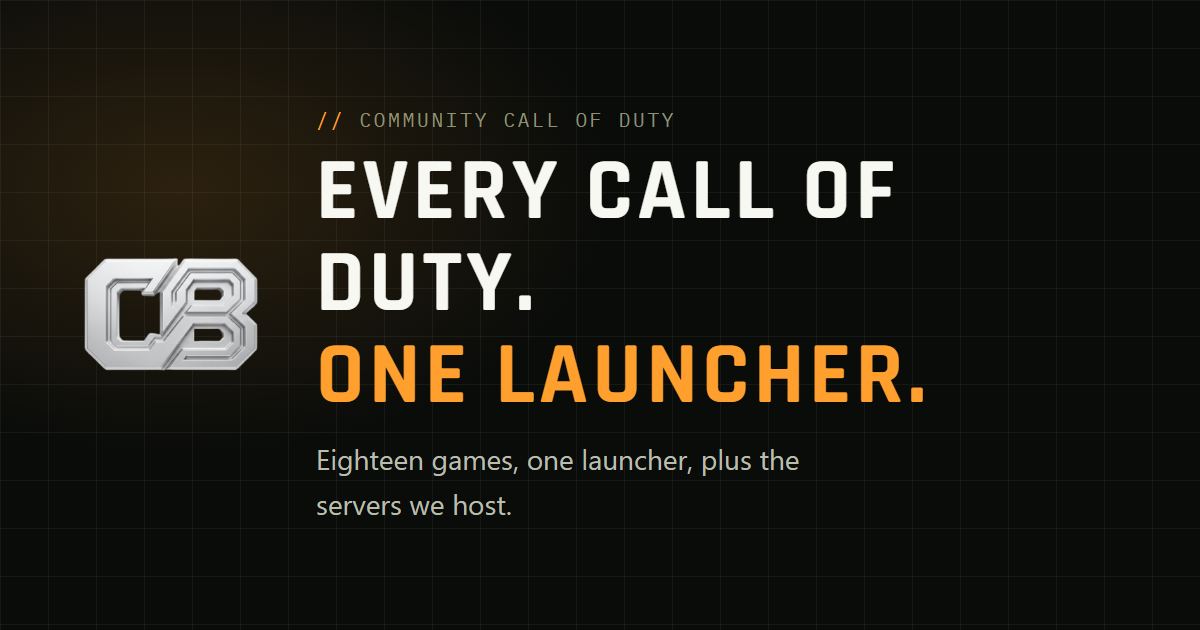
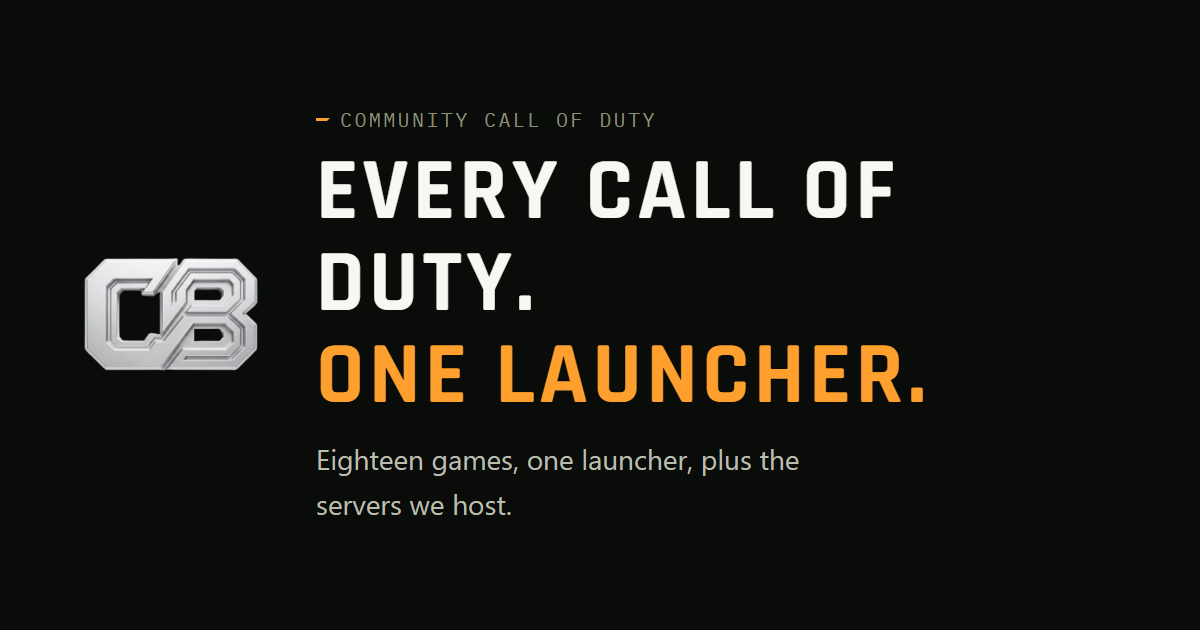
update design to further match launcher tactical theme

Changed region(s): [[0.0308, 0.1508, 0.2775, 0.4222], [0.2467, 0.1508, 0.555, 0.2111]]

diff --git a/site/assets/site.css b/site/assets/site.css
@@ -21,7 +21,6 @@
   --text-2: #B9BDAE;
   --muted: #8A9178;
   --dim: #5C6152;
-  --grid: rgba(237, 232, 214, 0.06);
   --accent: #FFA02E;
   --accent-contrast: #141309;
   --accent-soft: rgba(255, 160, 46, 0.22);
@@ -58,13 +57,6 @@ body {
   -webkit-font-smoothing: antialiased;
   text-rendering: optimizeLegibility;
 }
-body.tactical-grid {
-  background-image:
-    linear-gradient(var(--grid) 1px, transparent 1px),
-    linear-gradient(90deg, var(--grid) 1px, transparent 1px);
-  background-size: 48px 48px;
-  background-position: center top;
-}
 a { color: var(--accent); text-decoration: none; }
 a:hover { color: var(--link-hover); }
 img { max-width: 100%; height: auto; display: block; }
@@ -92,6 +84,7 @@ h1 { font-size: clamp(40px, 6vw, 68px); font-weight: 700; }
 h2 { font-size: clamp(28px, 3.6vw, 40px); font-weight: 700; }
 h3 { font-size: 19px; font-weight: 600; letter-spacing: 0.06em; }
 .eyebrow {
+  display: flex; align-items: center; gap: 10px;
   font-family: var(--font-mono);
   font-size: 12px;
   letter-spacing: var(--tracking);
@@ -99,7 +92,7 @@ h3 { font-size: 19px; font-weight: 600; letter-spacing: 0.06em; }
   color: var(--muted);
   margin: 0 0 10px;
 }
-.eyebrow::before { content: '// '; color: var(--accent); }
+.eyebrow::before { content: ''; width: 14px; height: 3px; flex: none; background: var(--accent); clip-path: polygon(0 0, 100% 0, calc(100% - 3px) 100%, 0 100%); }
 .lead { font-size: 18px; color: var(--text-2); max-width: 60ch; margin: 14px 0 0; }
 .mono { font-family: var(--font-mono); }
 .accent { color: var(--accent); }
@@ -121,9 +114,8 @@ h3 { font-size: 19px; font-weight: 600; letter-spacing: 0.06em; }
 .btn.primary {
   color: var(--accent-contrast); background: var(--accent-grad); border-color: transparent;
   clip-path: var(--clip-chamfer-sm);
-  box-shadow: 0 0 24px rgba(255, 160, 46, 0.18);
 }
-.btn.primary:hover { color: var(--accent-contrast); filter: brightness(1.08); box-shadow: 0 0 32px rgba(255, 160, 46, 0.32); }
+.btn.primary:hover { color: var(--accent-contrast); filter: brightness(1.08); }
 .btn.small { min-height: 36px; padding: 0 14px; font-size: 13px; }
 .btn-note { font-family: var(--font-mono); font-size: 12px; color: var(--muted); letter-spacing: 0.04em; }
 
@@ -155,15 +147,13 @@ h3 { font-size: 19px; font-weight: 600; letter-spacing: 0.06em; }
 section { padding: 72px 0; position: relative; }
 section + section { border-top: 1px solid var(--border); }
 .section-head { display: flex; align-items: flex-end; justify-content: space-between; gap: 24px; flex-wrap: wrap; margin-bottom: 32px; }
+.section-head h2, .split h2 { display: flex; align-items: center; gap: 14px; }
+.section-head h2::before, .split h2::before { content: ''; width: 18px; height: 4px; flex: none; background: var(--accent); clip-path: polygon(0 0, 100% 0, calc(100% - 4px) 100%, 0 100%); }
 .section-head p { margin: 8px 0 0; color: var(--text-2); max-width: 60ch; }
 .section-head .aside { font-family: var(--font-mono); font-size: 13px; color: var(--muted); }
 
 /* Hero */
 .hero { padding: 88px 0 72px; overflow: hidden; }
-.hero::before {
-  content: ''; position: absolute; inset: 0; pointer-events: none;
-  background: radial-gradient(ellipse 70% 60% at 20% 20%, rgba(255, 160, 46, 0.10), transparent 60%);
-}
 .hero .wrap { display: grid; grid-template-columns: minmax(0, 1.05fr) minmax(0, 1fr); gap: 56px; align-items: center; position: relative; }
 .hero-copy .lead { margin-top: 18px; }
 .hero-actions { display: flex; gap: 12px; flex-wrap: wrap; align-items: center; margin-top: 30px; }
@@ -172,10 +162,9 @@ section + section { border-top: 1px solid var(--border); }
   display: flex; align-items: center; gap: 10px; flex-wrap: wrap;
   margin-top: 28px; font-family: var(--font-mono); font-size: 13px; letter-spacing: 0.06em; text-transform: uppercase; color: var(--muted);
 }
-.live-line .dot { width: 8px; height: 8px; border-radius: 50%; background: var(--good); box-shadow: 0 0 10px var(--good); animation: pulse 2s infinite; }
+.live-line .dot { width: 8px; height: 8px; border-radius: 2px; background: var(--good); }
 .live-line .num { color: var(--text-bright); font-weight: 500; }
 .live-line .sep { color: var(--dim); }
-@keyframes pulse { 0%, 100% { opacity: 1; } 50% { opacity: 0.45; } }
 
 /* HUD frame around a screenshot */
 .frame { position: relative; padding: 12px; }
@@ -316,8 +305,8 @@ span.server-connect:hover { border-color: var(--border-hi); color: var(--muted);
 /* CTA band */
 .cta-band {
   padding: 56px 0; text-align: center;
-  background: radial-gradient(ellipse 60% 100% at 50% 100%, rgba(255, 160, 46, 0.12), transparent 70%);
 }
+.cta-band h2 { justify-content: center; }
 .cta-band .hero-actions { justify-content: center; }
 
 /* Footer */
@@ -374,6 +363,5 @@ footer p { margin: 10px 0 0; color: var(--muted); font-size: 13px; max-width: 46
 }
 @media (prefers-reduced-motion: reduce) {
   html { scroll-behavior: auto; }
-  .live-line .dot { animation: none; }
   .btn, .card, .game, .game img.capsule { transition: none; }
 }

diff --git a/site/launcher/index.html b/site/launcher/index.html
@@ -20,7 +20,7 @@
 <link rel="preload" href="/assets/fonts/ibm-plex-mono-400.woff2" as="font" type="font/woff2" crossorigin>
 <link rel="stylesheet" href="/assets/site.css">
 </head>
-<body class="tactical-grid">
+<body>
 <header class="top">
   <div class="wrap">
     <a class="brand" href="/">
@@ -76,20 +76,19 @@
     <div class="wrap">
       <div class="section-head">
         <div>
-          <p class="eyebrow">Features</p>
-          <h2>Everything between you and the game</h2>
-          <p>The launcher handles the setup, updates and housekeeping so the only button you need is Play.</p>
+          <h2>What it does</h2>
+          <p>It handles installs, updates and verification, so all you have to do is press Play.</p>
         </div>
       </div>
       <div class="grid cols-4">
         <div class="card">
           <span class="icon"><svg viewBox="0 0 24 24" fill="none" stroke="currentColor" stroke-width="2" stroke-linecap="round" stroke-linejoin="round"><path d="M3 7a2 2 0 0 1 2-2h4l2 2h8a2 2 0 0 1 2 2v9a2 2 0 0 1-2 2H5a2 2 0 0 1-2-2z"/></svg></span>
-          <h3>Your files or ours</h3>
+          <h3>Use your files or download them</h3>
           <p>Point it at a Steam or existing install, or download the game straight from our CDN.</p>
         </div>
         <div class="card">
           <span class="icon"><svg viewBox="0 0 24 24" fill="none" stroke="currentColor" stroke-width="2" stroke-linecap="round" stroke-linejoin="round"><path d="M21 12a9 9 0 1 1-6.2-8.56"/><path d="M21 3v6h-6"/></svg></span>
-          <h3>Always current</h3>
+          <h3>Automatic updates</h3>
           <p>The launcher, every client and the game files update automatically. Hash-verified, resumable downloads.</p>
         </div>
         <div class="card">
@@ -119,7 +118,7 @@
         </div>
         <div class="card">
           <span class="icon"><svg viewBox="0 0 24 24" fill="none" stroke="currentColor" stroke-width="2" stroke-linecap="round" stroke-linejoin="round"><path d="M14.7 6.3a1 1 0 0 0 0 1.4l1.6 1.6a1 1 0 0 0 1.4 0l3.77-3.77a6 6 0 0 1-7.94 7.94l-6.91 6.91a2.12 2.12 0 0 1-3-3l6.91-6.91a6 6 0 0 1 7.94-7.94z"/></svg></span>
-          <h3>Fixes the boring parts</h3>
+          <h3>Redistributables and links</h3>
           <p>Installs the Visual C++ and DirectX redistributables with one prompt, keeps a shared GUID across clients, and opens straight from <code>cbservers://</code> links.</p>
         </div>
       </div>
@@ -130,8 +129,7 @@
     <div class="wrap">
       <div class="section-head">
         <div>
-          <p class="eyebrow">Supported games</p>
-          <h2>From 2003 to Black Ops 4</h2>
+          <h2>Supported games</h2>
           <p>Each title runs on its community client. The launcher installs the client for you and, where a game has more than one, lets you choose.</p>
         </div>
         <a class="aside" href="https://docs.cbservers.xyz/games" rel="noopener">Per-game install docs &rarr;</a>
@@ -162,7 +160,6 @@
   <section id="social">
     <div class="wrap split">
       <div>
-        <p class="eyebrow">Play together</p>
         <h2>Friends, invites, rooms</h2>
         <p class="lead">Presence and invites work across every client the launcher runs, whether or not the game itself has a friends list.</p>
         <ul class="feature-list">
@@ -183,8 +180,7 @@
     <div class="wrap">
       <div class="section-head">
         <div>
-          <p class="eyebrow">Getting started</p>
-          <h2>Four steps to Play</h2>
+          <h2>Getting started</h2>
         </div>
         <a class="aside" href="https://docs.cbservers.xyz/launcher/install" rel="noopener">Full install guide &rarr;</a>
       </div>
@@ -200,7 +196,6 @@
 
   <section class="cta-band">
     <div class="wrap">
-      <p class="eyebrow">Free and open source</p>
       <h2>Get the launcher</h2>
       <div class="hero-actions">
         <a class="btn primary" href="https://github.com/CBServers/updater/raw/main/updater/cb-launcher/cb-launcher.exe" rel="noopener">Download for Windows</a>

diff --git a/site/index.html b/site/index.html
@@ -19,7 +19,7 @@
 <link rel="preload" href="/assets/fonts/ibm-plex-mono-400.woff2" as="font" type="font/woff2" crossorigin>
 <link rel="stylesheet" href="/assets/site.css">
 </head>
-<body class="tactical-grid">
+<body>
 <header class="top">
   <div class="wrap">
     <a class="brand" href="/">
@@ -77,8 +77,7 @@
     <div class="wrap">
       <div class="section-head">
         <div>
-          <p class="eyebrow">What we do</p>
-          <h2>What CB Servers is</h2>
+          <h2>What we do</h2>
         </div>
       </div>
       <div class="grid cols-3">
@@ -108,7 +107,6 @@
     <div class="wrap">
       <div class="section-head">
         <div>
-          <p class="eyebrow">Servers we host</p>
           <h2>Our servers</h2>
           <p>Trickshot and custom gun game servers across the clients the launcher supports. Copy a connect line into the in-game console, or find them under Servers in the launcher.</p>
         </div>
@@ -139,8 +137,7 @@
         <span class="tag">Launcher / Game page</span>
       </div>
       <div>
-        <p class="eyebrow">The launcher</p>
-        <h2>Install once, play everything</h2>
+        <h2>The launcher</h2>
         <p class="lead">Point it at a Steam install or let it download the files. It keeps the client and the game current, verifies what you have and launches straight into the mode you pick.</p>
         <ul class="feature-list">
           <li><span class="icon"><svg viewBox="0 0 24 24" fill="none" stroke="currentColor" stroke-width="2" stroke-linecap="round" stroke-linejoin="round"><path d="M21 12a9 9 0 1 1-6.2-8.56"/><path d="M21 3v6h-6"/></svg></span><div><strong>Always up to date</strong><span>Clients and game files update in the background, with fast hash-based verification when something breaks.</span></div></li>
@@ -159,8 +156,7 @@
     <div class="wrap">
       <div class="section-head">
         <div>
-          <p class="eyebrow">Right now</p>
-          <h2>Live across the community</h2>
+          <h2>Right now</h2>
         </div>
         <a class="aside" href="/stats/">Full statistics and history &rarr;</a>
       </div>
@@ -175,8 +171,7 @@
 
   <section class="cta-band">
     <div class="wrap">
-      <p class="eyebrow">Ready</p>
-      <h2>Drop in</h2>
+      <h2>Get started</h2>
       <div class="hero-actions">
         <a class="btn primary" href="/launcher/#download">Get the launcher</a>
         <a class="btn" href="/discord" rel="noopener">Join the Discord</a>

diff --git a/tools/og.html b/tools/og.html
@@ -1,7 +1,7 @@
 <!doctype html><html><head><meta charset="utf-8"><link rel="stylesheet" href="../site/assets/site.css"><style>
 html,body{width:1200px;height:630px;overflow:hidden}
 body{display:flex;align-items:center;padding:0 80px;gap:56px;position:relative}
-body::before{content:'';position:absolute;inset:0;background:radial-gradient(ellipse 60% 70% at 15% 30%,rgba(255,160,46,.14),transparent 60%)}
+
 img{width:180px;height:180px;border-radius:24px;position:relative}
 h1{font-size:88px;position:relative}.eyebrow{font-size:20px}.lead{font-size:28px;max-width:34ch}
-</style></head><body class="tactical-grid"><img src="../site/assets/img/logo.png"><div><p class="eyebrow">Community Call of Duty</p><h1>Every Call of Duty.<br><span class="accent">One launcher.</span></h1><p class="lead">Eighteen games, one launcher, plus the servers we host.</p></div></body></html>
+</style></head><body><img src="../site/assets/img/logo.png"><div><p class="eyebrow">Community Call of Duty</p><h1>Every Call of Duty.<br><span class="accent">One launcher.</span></h1><p class="lead">Eighteen games, one launcher, plus the servers we host.</p></div></body></html>

diff --git a/site/stats/stats.css b/site/stats/stats.css
@@ -87,7 +87,7 @@ h1 { font-size: 34px; margin: 0 0 12px; }
 .bars { display: flex; flex-direction: column; gap: 6px; }
 .bar-row { display: grid; grid-template-columns: 120px 1fr 56px; align-items: center; gap: 10px; font-size: 13px; }
 .bar-row .name { color: var(--text-2); white-space: nowrap; overflow: hidden; text-overflow: ellipsis; }
-.bar-row .track { height: 10px; background: var(--grid); border-radius: 4px; overflow: hidden; }
+.bar-row .track { height: 10px; background: var(--surface-hi); border-radius: 4px; overflow: hidden; }
 .bar-row .fill { height: 100%; background: var(--series-1); border-radius: 4px; }
 .bar-row .val { text-align: right; font-family: var(--font-mono); font-variant-numeric: tabular-nums; }
 .bars .none { color: var(--muted); font-size: 13px; }

diff --git a/site/404.html b/site/404.html
@@ -9,7 +9,7 @@
 <link rel="icon" href="/favicon.ico" sizes="any">
 <link rel="stylesheet" href="/assets/site.css">
 </head>
-<body class="tactical-grid">
+<body>
 <main class="prose" style="text-align:center;padding-top:120px">
   <p class="eyebrow" style="justify-content:center">Error 404</p>
   <h1>Nothing here</h1>
